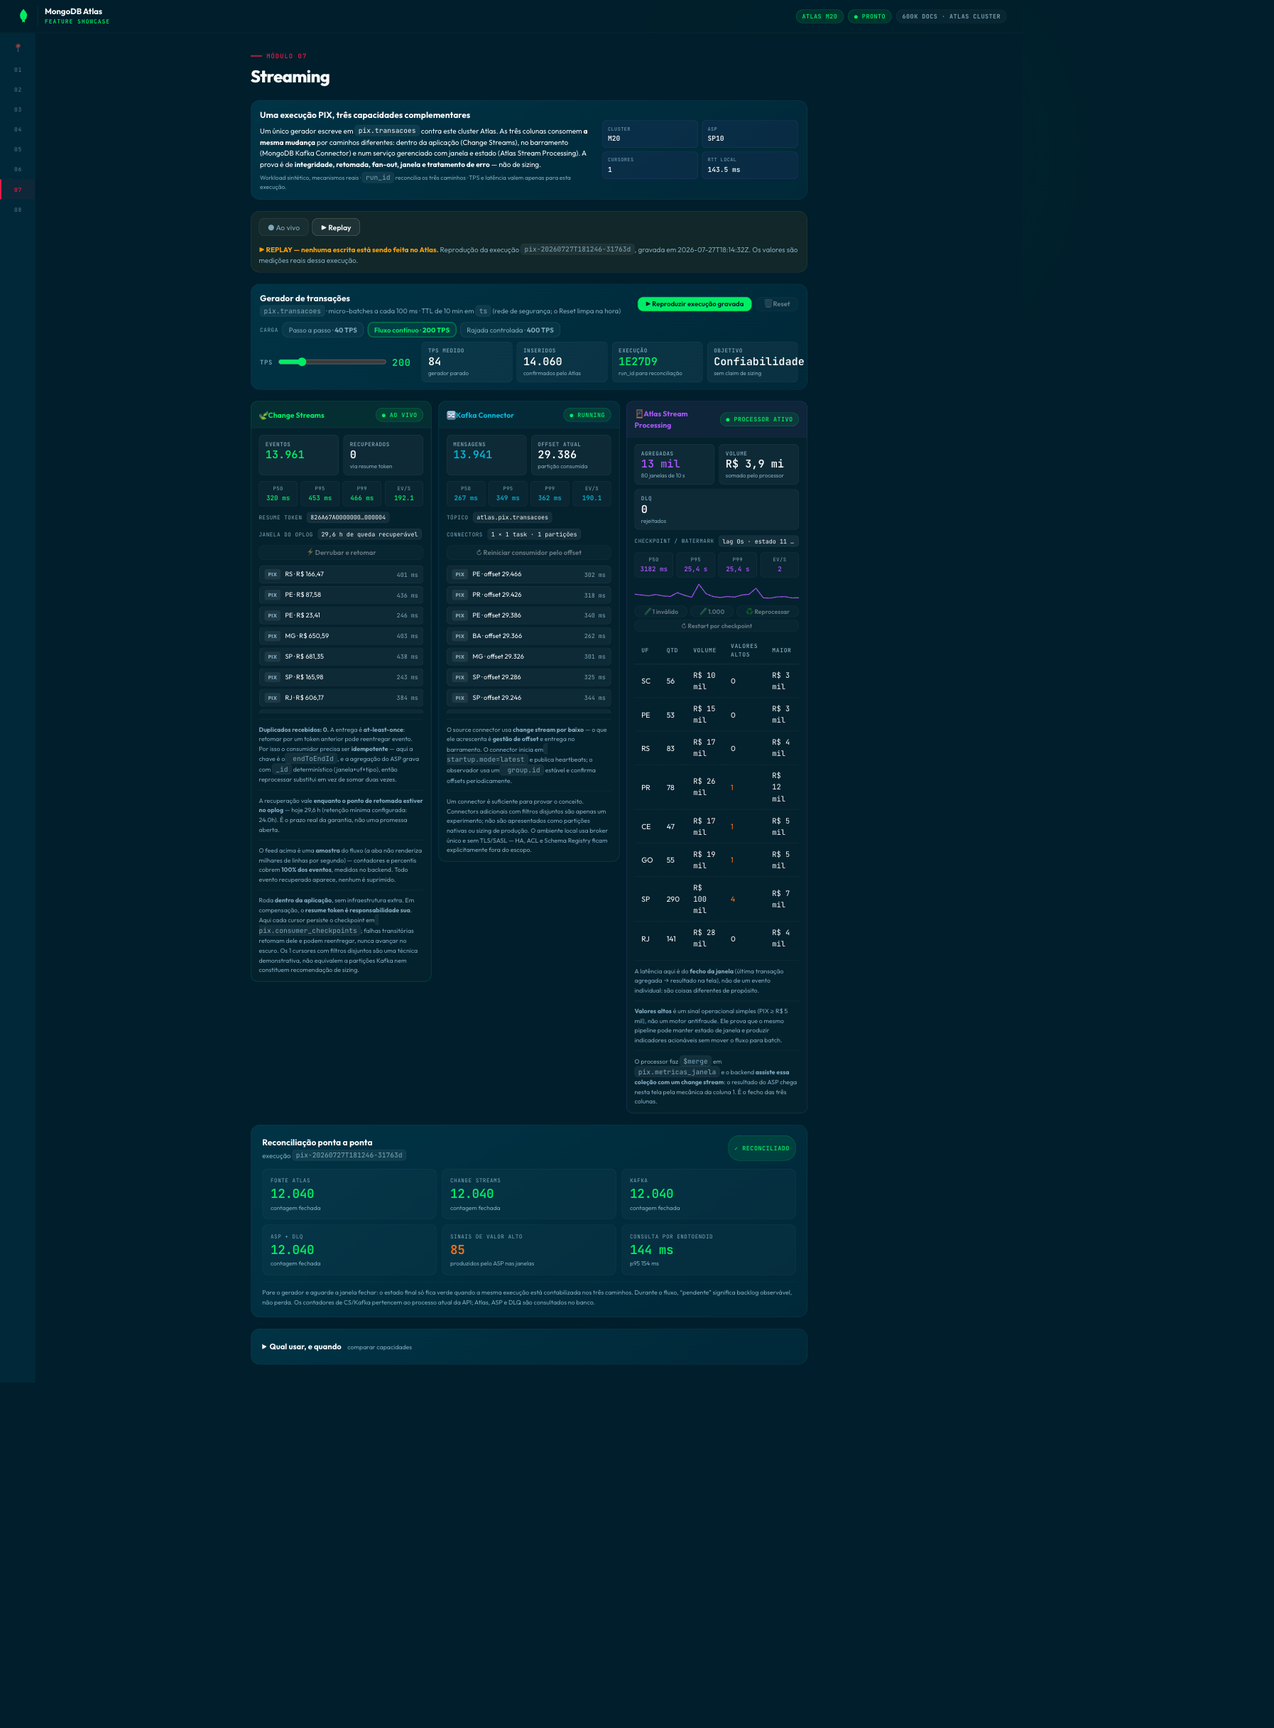
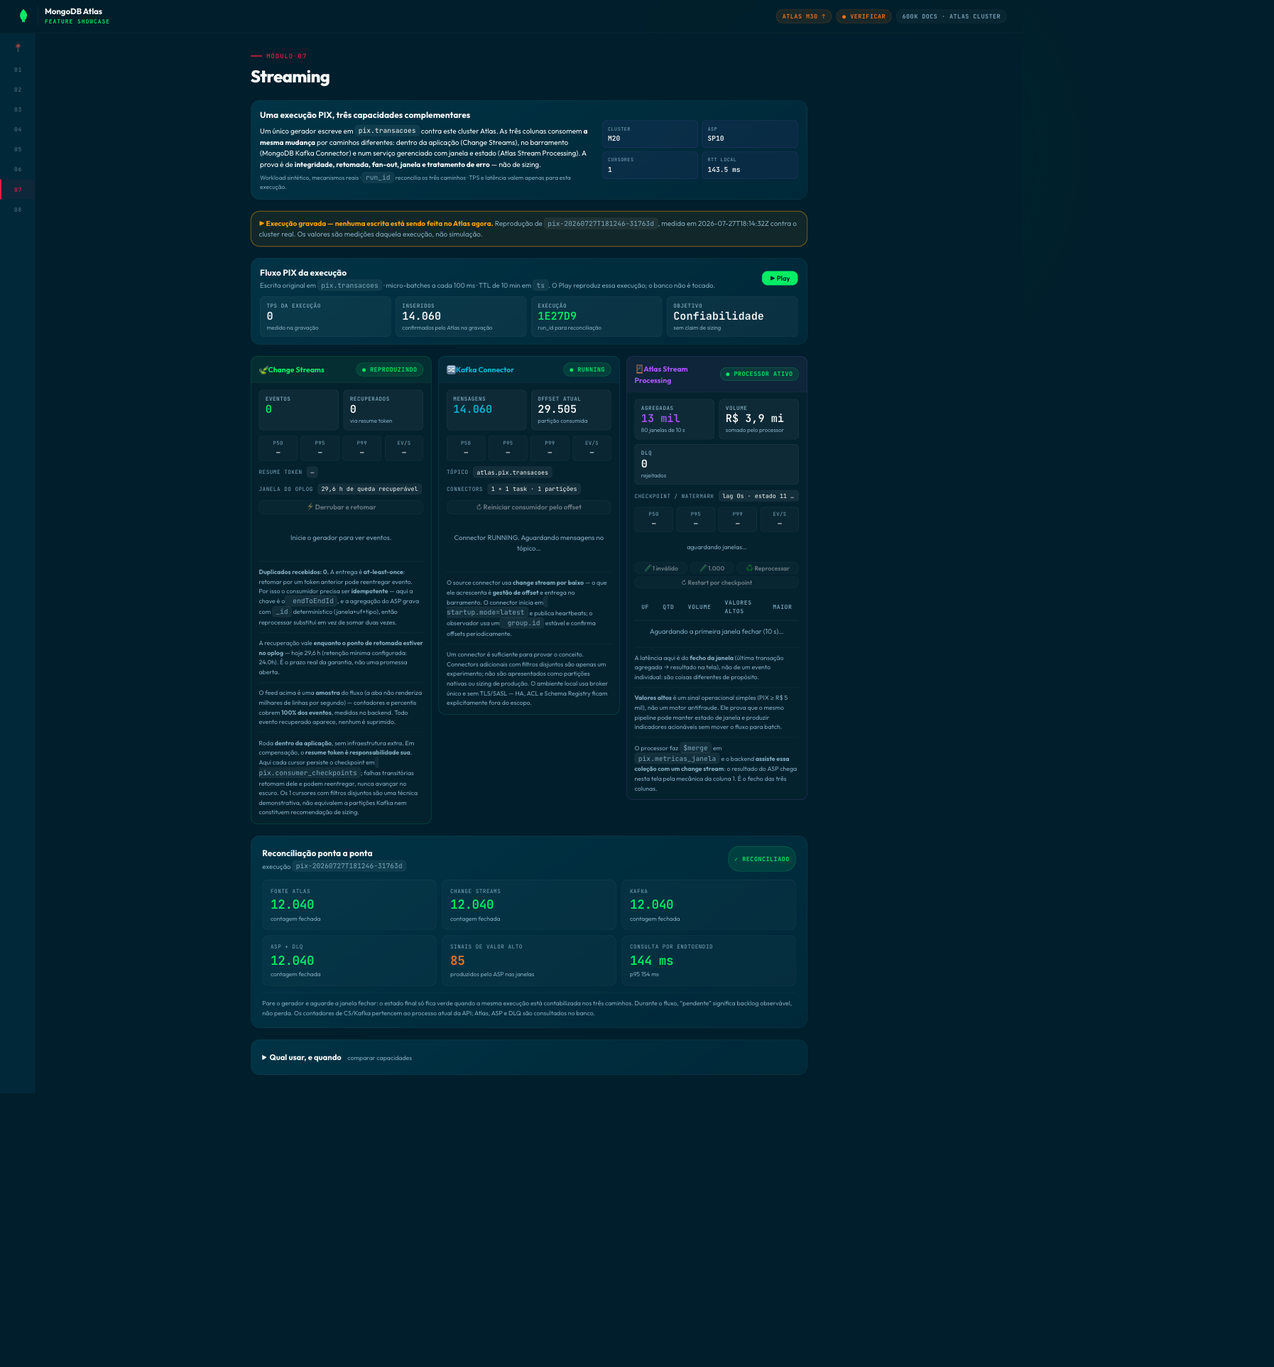
feat(streaming): aba passa a reproduzir só a execução gravada
O modo ao vivo saiu. Ele escrevia de verdade a cada demonstração e estressava o
cluster sem acrescentar nada à narrativa — as três capacidades já estão inteiras
na gravação (Change Streams 456 eventos, Kafka 531, ASP 80 janelas fechadas),
que é o que permite compará-las lado a lado.

- um único botão ▶ Play move o relógio da gravação
- some o seletor de modo, o slider de TPS, os presets de carga e o Reset: todos
  prometiam controle sobre uma carga que já foi decidida na gravação
- a coluna 1 passa a marcar "reproduzindo" no lugar de "ao vivo", que
  contradizia o selo

A palavra "replay" saiu da interface, a divulgação não. O selo continua
permanente e incondicional, nomeando a execução e a data em que foi medida.
Renomear o controle é cosmético; remover o selo não seria — os números são
medições reais, e sem essa linha a plateia os lê como se estivessem acontecendo
agora.

Ações que atuariam sobre um ambiente real (restart de connector, DLQ, restart
por checkpoint) seguem visíveis e desabilitadas: a capacidade faz parte da
história, mas não há alvo durante uma reprodução.

Changed region(s): [[0.1873, 0.0312, 0.6243, 0.7796], [0.5931, 0.0, 0.7179, 0.0312], [0.0312, 0.0, 0.0936, 0.0312]]

diff --git a/frontend/src/pages/Streaming.jsx b/frontend/src/pages/Streaming.jsx
@@ -3,16 +3,6 @@ import { useApi } from '../hooks/useApi'
 import QueryBlock from '../components/QueryBlock'
 
 const MAX_FEED = 40
-// Teto do gerador. O backend é a autoridade (TPS_MAX em routers/streaming.py) e
-// manda o valor em /streaming/cenario; este é só o fallback para uma API antiga.
-// Existe para manter a demo reproduzível em M20 sem disparar o auto-scaling.
-const TPS_MAX_PADRAO = 1000
-const TPS_STEP = 10
-const CONCEPT_PRESETS = [
-  { label: 'Passo a passo', tps: 40, detalhe: 'fluxo leve para acompanhar cada mecanismo' },
-  { label: 'Fluxo contínuo', tps: 200, detalhe: 'carga moderada para observar janelas e reconciliação' },
-  { label: 'Rajada controlada', tps: 400, detalhe: 'backlog e recuperação sem pretensão de benchmark' },
-]
 
 // Hook de SSE: EventSource sobre /api/... (proxy do Vite → backend :8002).
 // Só GET, então o mutation guard não exige o X-Demo-Token.
@@ -23,9 +13,9 @@ const CONCEPT_PRESETS = [
 // ele desiste de vez, e as três colunas ficam mudas até alguém dar F5 no meio da
 // apresentação. Aqui a gente fecha e reabre até conseguir.
 const SSE_RETRY_MS = 2000
-// Ações que atuam no ambiente real (restart de connector, DLQ, checkpoint,
-// reset). No replay não existe alvo: ficam desabilitadas em vez de mentir.
-const SEM_ALVO_NO_REPLAY = 'Indisponível no replay: estas ações atuam sobre o ambiente real'
+// Ações que atuavam no ambiente real (restart de connector, DLQ, checkpoint).
+// Numa execução gravada não existe alvo: ficam desabilitadas em vez de mentir.
+const SEM_ALVO_NO_REPLAY = 'Indisponível: esta aba reproduz uma execução gravada, não há ambiente para agir'
 
 function useSse(path, onMessage, enabled = true) {
   const [connected, setConnected] = useState(false)
@@ -135,69 +125,45 @@ function Sparkline({ values }) {
 export default function Streaming() {
   const { call } = useApi()
 
-  // ── Modo: ao vivo × replay ───────────────────────────────────────────────
-  // O replay reproduz UMA execução real gravada (scripts/capture_replay.py) e
-  // não escreve no banco. Existe porque M20/M30 são instâncias burstable e o
-  // auto-scaling do Atlas dispara por CPU RELATIVA: 17,6% absolutos deram 88%
-  // relativos e escalaram o cluster com o gerador já parado, só com esta tela
-  // aberta. Com o replay a demo roda com o cluster pausado.
+  // ── Esta aba roda SEMPRE sobre uma execução gravada ──────────────────────
+  // Não existe modo ao vivo aqui. A escrita ao vivo estressava o cluster sem
+  // necessidade: M20/M30 são instâncias burstable e o auto-scaling do Atlas
+  // dispara por CPU RELATIVA — 17,6% absolutos deram 88% relativos e escalaram
+  // o cluster com o gerador JÁ PARADO, só com esta tela aberta e consumindo.
   //
-  // Os números do replay são medições, não simulação — mas a tela precisa dizer
-  // qual dos dois o operador está vendo, sempre. Ver o selo mais abaixo.
-  const [modo, setModo] = useState('ao_vivo')
+  // O que se reproduz é medição real (scripts/capture_replay.py grava os mesmos
+  // eventos SSE e snapshots que a tela consumia ao vivo); nada é sintetizado.
+  // Mas número medido ontem apresentado sem contexto vira número de hoje na
+  // cabeça de quem assiste — por isso o selo abaixo é permanente e não
+  // condicional. Ele é a única coisa que separa "gravado" de "ao vivo" para a
+  // plateia. Não remover.
+  const replay = true
+  const base = '/replay'
   const [manifest, setManifest] = useState(null)
-  const replay = modo === 'replay'
-  const base = replay ? '/replay' : ''
 
   useEffect(() => {
-    // Sonda de capacidade: responde 200 com `disponivel: false` quando não há
-    // gravação, então o seletor só aparece onde o modo realmente existe.
+    // Responde 200 com `disponivel: false` quando não há gravação — nesse caso
+    // a aba avisa em vez de mostrar painéis vazios sem explicação.
     call('/replay/manifest').then((d) => d && setManifest(d))
   }, [call])
 
   // ── Cenário PIX conceitual ────────────────────────────────────────────────
   const [cenario, setCenario] = useState(null)
   const [rede, setRede] = useState(null)
-  const [tpsMax, setTpsMax] = useState(TPS_MAX_PADRAO)
   useEffect(() => {
-    call(`${base}/streaming/cenario`).then((d) => {
-      if (!d) return
-      if (Number.isFinite(d.tps_max) && d.tps_max > 0) setTpsMax(d.tps_max)
-      // Durante um rollout a UI nova pode conversar por alguns segundos com
-      // uma API antiga. Claims legados de capacidade nunca voltam para a tela:
-      // somente o novo contrato explícito de PoC é aceito.
-      if (d.premissas?.sizing === false) {
-        setCenario(d)
-        return
-      }
-      setCenario({
-        premissas: { workload: 'sintético', sizing: false },
-        presets: CONCEPT_PRESETS,
-        ambiente: {
-          cluster: d.ambiente?.cluster || '—',
-          particoes_consumo: d.ambiente?.particoes_consumo || 1,
-          nota: 'Os números mostram apenas esta execução. Não são capacidade do produto nem sizing.',
-        },
-      })
-    })
+    // O cenário vem da gravação: descreve o ambiente em que a execução foi
+    // medida, não o ambiente de agora.
+    call(`${base}/streaming/cenario`).then((d) => d && setCenario(d))
     call(`${base}/streaming/rede`).then((d) => d && setRede(d))
   }, [call, base])
 
-  // ── Gerador ──────────────────────────────────────────────────────────────
-  const [tps, setTps] = useState(200)
+  // ── Relógio da reprodução ────────────────────────────────────────────────
   const [gen, setGen] = useState(null)
 
-  const tpsTocado = useRef(false)
   const refreshGen = useCallback(async () => {
     const data = await call(`${base}/streaming/generator/status`)
-    if (!data) return
-    setGen(data)
-    // Enquanto o operador não mexeu no slider, ele reflete o que o backend está
-    // de fato rodando (inclusive se outra aba/curl mudou o TPS).
-    if (!tpsTocado.current && data.running && data.tps_alvo) {
-      setTps(Math.min(tpsMax, Math.max(10, data.tps_alvo)))
-    }
-  }, [call, tpsMax, base])
+    if (data) setGen(data)
+  }, [call, base])
 
   useEffect(() => {
     refreshGen()
@@ -205,27 +171,14 @@ export default function Streaming() {
     return () => clearInterval(t)
   }, [refreshGen])
 
-  const aplicarTps = useCallback(async (valor) => {
-    // No replay o "play" move o relógio da gravação; não há TPS a aplicar,
-    // porque não há escrita. O gerador real fica intocado.
-    if (replay) {
-      await call('/replay/play', { method: 'POST' })
-      refreshGen()
-      return
-    }
-    const tpsSeguro = Math.min(tpsMax, Math.max(10, Number(valor) || 10))
-    tpsTocado.current = true
-    setTps(tpsSeguro)
-    await call('/streaming/generator/start', {
-      method: 'POST',
-      headers: { 'Content-Type': 'application/json' },
-      body: JSON.stringify({ tps: tpsSeguro }),
-    })
+  // Play move o relógio da gravação. Nenhuma escrita sai daqui.
+  const play = useCallback(async () => {
+    await call('/replay/play', { method: 'POST' })
     refreshGen()
-  }, [call, refreshGen, tpsMax, replay])
+  }, [call, refreshGen])
 
   const stopGen = async () => {
-    await call(replay ? '/replay/stop' : '/streaming/generator/stop', { method: 'POST' })
+    await call('/replay/stop', { method: 'POST' })
     refreshGen()
   }
 
@@ -355,19 +308,6 @@ export default function Streaming() {
     await call('/streaming/asp/restart-checkpoint', { method: 'POST', timeoutMs: 90_000 })
   }
 
-  // ── Reset global ─────────────────────────────────────────────────────────
-  const resetAll = async () => {
-    const result = await call('/streaming/reset', { method: 'POST', timeoutMs: 210_000 })
-    if (!result) return
-    setCsEvents([]); setCsMetrics(null)
-    setCsState({ eventos: 0, recuperados: 0, token: null, fase: 'ativo' })
-    setKafkaMsgs([]); setKafkaMetrics(null); setJanelas([]); setDlq([]); setAspMetrics(null)
-    refreshGen()
-  }
-
-  const tpsDesvio = gen?.tps_alvo ? Math.round(Math.abs(gen.tps_medido - gen.tps_alvo) / gen.tps_alvo * 100) : null
-  const presets = (cenario?.presets || CONCEPT_PRESETS)
-    .filter((p) => p.tps >= 10 && p.tps <= tpsMax)
 
   return (
     <div style={{ display: 'flex', flexDirection: 'column', gap: 20 }}>
@@ -394,32 +334,26 @@ export default function Streaming() {
         </div>
       </div>
 
-      {/* Seletor de modo + selo de origem.
-          O selo é deliberadamente grande e permanente: quem olha a tela precisa
-          saber, sem perguntar, se está vendo escrita ao vivo ou a reprodução de
-          uma execução gravada. Os números do replay são reais (medidos), mas
-          apresentá-los como se estivessem acontecendo agora seria enganoso. */}
-      {manifest?.disponivel && (
-        <div className={`card str-modo${replay ? ' str-modo-replay' : ''}`}>
+      {/* Selo de origem — permanente, não condicional a modo.
+          Os números abaixo foram medidos de verdade contra o Atlas, mas estão
+          sendo reproduzidos. Quem assiste precisa saber disso sem perguntar. */}
+      {manifest?.disponivel ? (
+        <div className="card str-modo str-modo-replay">
           <div className="str-modo-linha">
-            <div className="str-modo-botoes">
-              <button className={`tag${!replay ? ' active' : ''}`}
-                onClick={() => setModo('ao_vivo')}>● Ao vivo</button>
-              <button className={`tag${replay ? ' active' : ''}`}
-                onClick={() => setModo('replay')}>▶ Replay</button>
+            <div className="str-modo-selo">
+              <strong>▶ Execução gravada — nenhuma escrita está sendo feita no Atlas agora.</strong>{' '}
+              Reprodução de <code>{manifest.run_id}</code>, medida em {manifest.gravado_em}{' '}
+              contra o cluster real. Os valores são medições daquela execução, não simulação.
             </div>
-            {replay ? (
-              <div className="str-modo-selo">
-                <strong>▶ REPLAY — nenhuma escrita está sendo feita no Atlas.</strong>{' '}
-                Reprodução da execução <code>{manifest.run_id}</code>, gravada em{' '}
-                {manifest.gravado_em}. Os valores são medições reais dessa execução.
-              </div>
-            ) : (
-              <div className="str-modo-selo">
-                <strong>● AO VIVO</strong> — o gerador escreve de verdade em{' '}
-                <code>pix.transacoes</code> e o cluster processa. Consome compute do Atlas.
-              </div>
-            )}
+          </div>
+        </div>
+      ) : (
+        <div className="card str-modo">
+          <div className="str-modo-linha">
+            <div className="str-modo-selo">
+              <strong>Nenhuma execução gravada.</strong> Rode{' '}
+              <code>python scripts/capture_replay.py</code> com o ambiente ligado para gravar uma.
+            </div>
           </div>
         </div>
       )}
@@ -428,56 +362,29 @@ export default function Streaming() {
       <div className="card str-generator">
         <div style={{ display: 'flex', alignItems: 'center', justifyContent: 'space-between', gap: 12, flexWrap: 'wrap', marginBottom: 10 }}>
           <div>
-            <div style={{ fontWeight: 700, fontSize: 15 }}>Gerador de transações</div>
+            <div style={{ fontWeight: 700, fontSize: 15 }}>Fluxo PIX da execução</div>
             <div style={{ fontSize: 12, color: 'var(--text-secondary)', marginTop: 2 }}>
-              <code>{gen?.colecao || 'pix.transacoes'}</code> · micro-batches a cada 100 ms ·
-              TTL de {gen?.ttl_segundos ? (gen.ttl_segundos >= 60 ? `${Math.round(gen.ttl_segundos / 60)} min` : `${gen.ttl_segundos}s`) : '—'} em <code>ts</code> (rede de segurança; o Reset limpa na hora)
+              Escrita original em <code>{gen?.colecao || 'pix.transacoes'}</code> · micro-batches a
+              cada 100 ms · TTL de {gen?.ttl_segundos ? (gen.ttl_segundos >= 60 ? `${Math.round(gen.ttl_segundos / 60)} min` : `${gen.ttl_segundos}s`) : '—'} em <code>ts</code>.
+              O Play reproduz essa execução; o banco não é tocado.
             </div>
           </div>
           <div style={{ display: 'flex', gap: 8 }}>
             {gen?.running
               ? <button className="btn btn-danger btn-sm" onClick={stopGen}>■ Parar</button>
-              : <button className="btn btn-primary btn-sm" onClick={() => aplicarTps(tps)}>
-                  {replay ? '▶ Reproduzir execução gravada' : `▶ Iniciar a ${num(tps)} TPS`}
-                </button>}
-            {/* Reset apaga coleções reais — no replay não há o que apagar. */}
-            <button className="btn btn-default btn-sm" onClick={resetAll} disabled={replay}
-              title={replay ? 'Indisponível no replay: nada é escrito no banco' : undefined}>🗑 Reset</button>
+              : <button className="btn btn-primary btn-sm" onClick={play}>▶ Play</button>}
           </div>
         </div>
 
-        {/* Presets do cenário PIX */}
-        {presets.length > 0 && (
-          <div className="str-presets">
-            <span className="str-presets-l">Carga</span>
-            {presets.map((p) => (
-              <button key={p.label} title={p.detalhe}
-                className={`tag${tps === p.tps ? ' active' : ''}`}
-                onClick={() => aplicarTps(p.tps)}>
-                {p.label} · <strong>{num(p.tps)} TPS</strong>
-              </button>
-            ))}
-          </div>
-        )}
-
+        {/* Sem presets nem slider de TPS: o Play reproduz a execução como ela
+            foi medida. Um controle de carga aqui prometeria o que a reprodução
+            não faz — a carga foi decidida na gravação. */}
         <div className="str-gen-row">
-          <label htmlFor="tps" className="str-slider-label">TPS
-            <input id="tps" type="range" min="10" max={tpsMax} step={TPS_STEP} value={tps} className="str-slider"
-              onChange={(e) => {
-                const v = Number(e.target.value)
-                tpsTocado.current = true
-                setTps(v)
-              }}
-              onPointerUp={(e) => { if (gen?.running) aplicarTps(Number(e.currentTarget.value)) }}
-              onKeyUp={(e) => { if (gen?.running) aplicarTps(Number(e.currentTarget.value)) }}
-              onBlur={(e) => { if (gen?.running) aplicarTps(Number(e.currentTarget.value)) }} />
-            <span className="str-slider-v">{num(tps)}</span>
-          </label>
           <div className="str-stats">
-            <Stat label="TPS medido" value={num(gen?.tps_medido ?? 0)}
-              sub={tpsDesvio != null && gen?.running ? `observado nesta execução · alvo ${num(gen.tps_alvo)}` : 'gerador parado'}
+            <Stat label="TPS da execução" value={num(gen?.tps_alvo ?? manifest?.tps_alvo ?? 0)}
+              sub={gen?.running ? 'reproduzindo' : 'medido na gravação'}
               color={gen?.running ? '#00ED64' : undefined} />
-            <Stat label="Inseridos" value={num(gen?.inseridos ?? 0)} sub="confirmados pelo Atlas" />
+            <Stat label="Inseridos" value={num(gen?.inseridos ?? 0)} sub="confirmados pelo Atlas na gravação" />
             <Stat label="Execução" value={gen?.run_id ? gen.run_id.slice(-6).toUpperCase() : '—'}
               sub="run_id para reconciliação" color={gen?.run_id ? '#00ED64' : undefined} />
             <Stat label="Objetivo" value="Confiabilidade" sub="sem claim de sizing" />
@@ -492,8 +399,10 @@ export default function Streaming() {
         <div className="str-col str-col-cs">
           <div className="str-col-head">
             <span>🍃 Change Streams</span>
+            {/* "ao vivo" aqui contradiria o selo: o stream está conectado, mas
+                o que trafega nele é a gravação sendo reproduzida. */}
             <span className={`badge ${csConnected ? 'badge-green' : 'badge-yellow'}`}>
-              {csConnected ? '● ao vivo' : '○ conectando'}
+              {csConnected ? '● reproduzindo' : '○ conectando'}
             </span>
           </div>
           <div className="str-col-body">

diff --git a/README.md b/README.md
@@ -295,12 +295,17 @@ in the tens of thousands: it fits in cache, and the deletion rate is far too low
 to compete with the peak or to flood the oplog the resume-token demo depends on.
 The window is still longer than any demo burst.
 
-**Replay mode — demo with the cluster paused.** The Streaming page has an
-**Ao vivo / Replay** switch. Replay serves one *recorded real run* from
-`backend/data/replay_streaming.json` through `/replay/*`, which mirrors the
-`/streaming/*` paths. Nothing is written to MongoDB during a replay, so the demo
+**The Streaming page replays a recorded run — it does not write.** There is no
+live mode on this page: a single **▶ Play** button replays one *recorded real
+run* from `backend/data/replay_streaming.json` through `/replay/*`, which
+mirrors the `/streaming/*` paths. Nothing is written to MongoDB, so the page
 works with the cluster **paused** and with no Kafka or ASP running — only the
-backend and the frontend.
+backend and the frontend. All three columns are in the recording (Change Streams
+456 events, Kafka 531, ASP 80 closed windows), which is what lets the three
+approaches be compared side by side.
+
+Live writing was removed because it stressed the cluster for no demonstrative
+gain — see the relative-CPU note below.
 
 **Open the page before starting the generator.** The Change Stream and Kafka
 consumers start lazily, on the first SSE subscription, and the Kafka observer
@@ -312,10 +317,14 @@ Wait for the Kafka column to report `consumindo`, then start the generator.
 
 ![Replay mode with the run reconciled](docs/screenshots/07c-streaming-replay.png)
 
-The badge above the generator is always present and names the recorded run. In
-that shot the four paths agree at 12,040 with zero duplicates and an empty DLQ —
-figures measured during the recording, replayed here without touching the
-cluster.
+The badge is permanent and names the recorded run and the date it was measured.
+It is not optional decoration: the figures are real measurements, and without
+that line an audience reasonably reads them as happening now. In the shot the
+four paths agree at 12,040 with zero duplicates and an empty DLQ.
+
+Actions that would act on a real environment (connector restart, DLQ injection,
+checkpoint restart) stay visible but disabled — the capability is part of the
+story, but there is nothing to act on during a replay.
 
 Record a run with the environment up:
 

diff --git a/docs/SESSION_HANDOFF.md b/docs/SESSION_HANDOFF.md
@@ -156,9 +156,15 @@ plus polling (generator status 1 s, oplog/read-probe/DLQ 4 s, reconciliation and
 ASP 5 s, Kafka 4 s). `/streaming/oplog` alone does a `$natural` sort over
 `local.oplog.rs` every 4 s. Leaving the page open costs cluster.
 
-**Replay mode** (`backend/routers/replay.py`, `scripts/capture_replay.py`) is
-the answer to that: it replays one recorded real run with the cluster paused, so
-the mechanics can be demonstrated at zero compute cost.
+**Replay is now the only mode on the Streaming page** (`backend/routers/replay.py`, `scripts/capture_replay.py`). Live writing was
+removed at the owner's request: it stressed the cluster without adding to the
+demonstration. A single **Play** button replays one recorded real run, so the
+mechanics are shown at zero compute cost — cluster paused, no Kafka, no ASP.
+
+The word "replay" was dropped from the UI, but the disclosure was not. The
+badge is permanent and unconditional, the Change Streams column reads
+"reproduzindo" rather than "ao vivo", and environment-acting buttons stay
+disabled. Renaming the control is cosmetic; removing the badge would not be.
 
 The honesty constraint is part of the design, not decoration. The PoV's whole
 claim is "evidence instead of claims", so a mode that *looks* live while nothing
